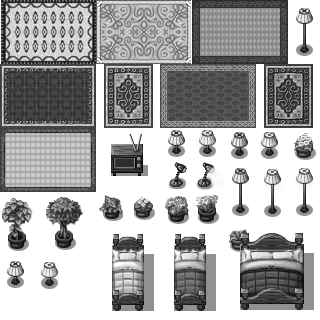
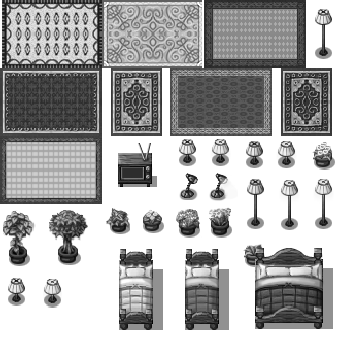
Deploying to gh-pages from master @ e7145d9dc13cb1122553d1f6a37507c3435c3730 🚀

diff --git a/furniture 2bis N&B.tsx b/furniture 2bis N&B.tsx
@@ -1,0 +1,4 @@
+<?xml version="1.0" encoding="UTF-8"?>
+<tileset version="1.4" tiledversion="1.4.3" name="furniture 2bis N&amp;B" tilewidth="32" tileheight="32" tilecount="100" columns="10">
+ <image source="furniture 2bis N&amp;B.png" width="320" height="320"/>
+</tileset>

diff --git a/furniture 1 N&B.tsx b/furniture 1 N&B.tsx
@@ -1,0 +1,4 @@
+<?xml version="1.0" encoding="UTF-8"?>
+<tileset version="1.4" tiledversion="1.4.3" name="furniture 1 N&amp;B" tilewidth="32" tileheight="32" tilecount="100" columns="10">
+ <image source="furniture 1 N&amp;B.png" width="320" height="320"/>
+</tileset>
